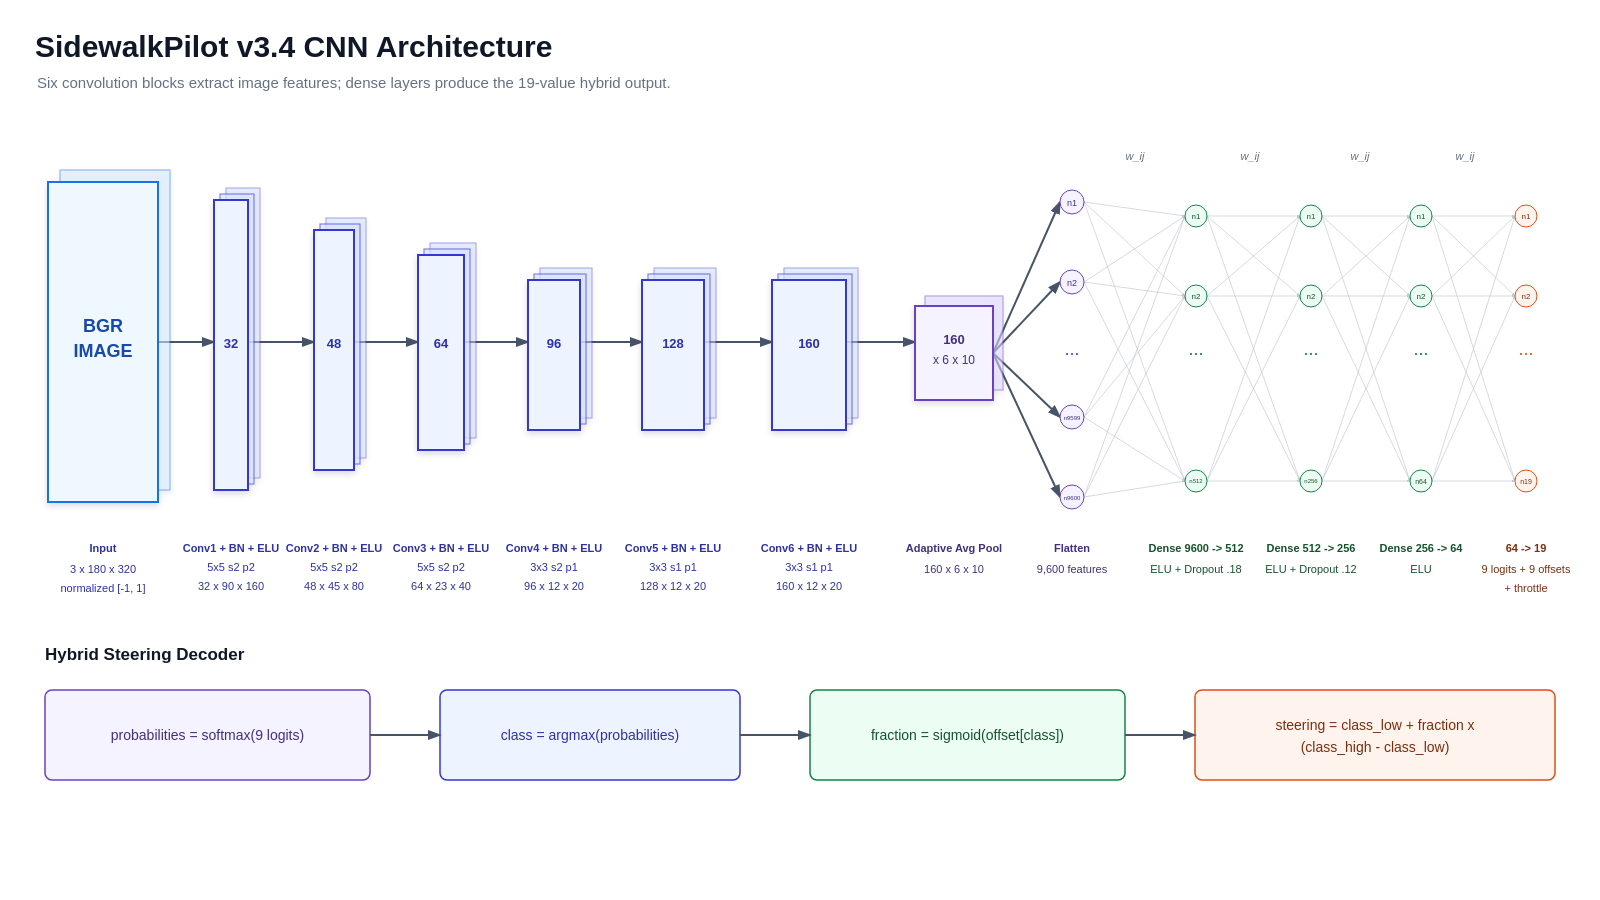
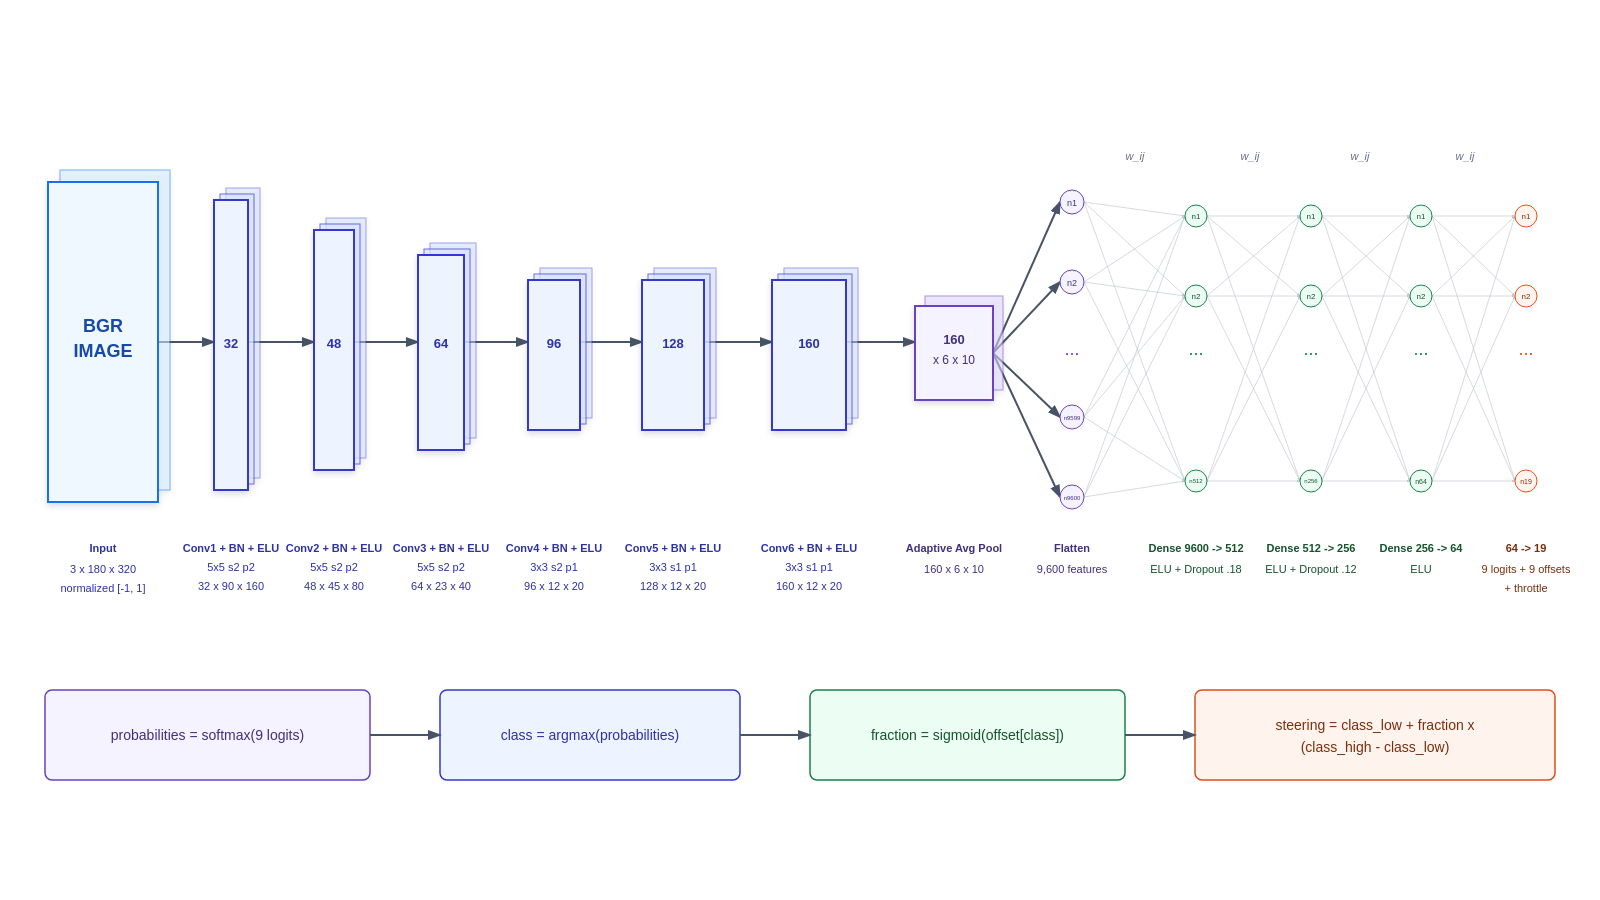
Update runtime timing documentation

Changed region(s): [[0.0, 0.0311, 0.3438, 0.0933], [0.0312, 0.7156, 0.1562, 0.7467]]

diff --git a/docs/site/runtime-code/runtime-loop.md b/docs/site/runtime-code/runtime-loop.md
@@ -1,6 +1,6 @@
 # Runtime Loop and Entrypoint
 
-The Raspberry Pi 5 controller is a 60 Hz arbitration loop owned by `run()` in `code/controller/current/rc_car_app/runtime.py`. The loop reads already-available state, applies control priority, writes hardware commands, and publishes telemetry. Slow device and network work must not execute synchronously in this loop.
+The Raspberry Pi 5 controller is a 50 Hz (20 ms target period) arbitration loop owned by `run()` in `code/controller/current/rc_car_app/runtime.py`. The loop reads already-available state, applies control priority, writes hardware commands, and publishes telemetry. Slow device and network work must not execute synchronously in this loop.
 
 `code/controller/current/rc_car.py` is the minimal executable entrypoint. It calls `runtime.run()`; model selection happens on the dashboard or through `RC_CAR_STEERING_MODEL`, with v3.4 as the checked-in default. Startup initializes controller input, hardware, sensors, camera, Jetson Orin Nano inference, logging, and dashboard telemetry. If no joystick is detected, startup exits rather than enabling a car without its manual-control interface.
 
@@ -13,7 +13,7 @@ The Raspberry Pi 5 controller is a 60 Hz arbitration loop owned by `run()` in `c
 5. Read the latest sensor and navigation state and update dashboard page selection.
 6. Queue the newest dashboard payload for its sender worker.
 7. Append periodic CSV telemetry.
-8. Call `clock.tick(60)` to cap the loop rate.
+8. Call `clock.tick(CONTROL_LOOP_HZ)` to cap the loop rate at 50 Hz.
 
 ## Worker Ownership
 
@@ -35,7 +35,7 @@ Both Jetson Orin Nano and dashboard workers are **latest-value** boundaries. If 
 
 Jetson Orin Nano uses `10.42.0.2:8770`. A failed TCP connect can consume the complete `0.4 s` socket timeout, but that wait occurs only in `AsyncJetsonSteeringClient`. Manual steering and dashboard updates continue while Jetson Orin Nano is powered off. Autonomous mode receives no fresh model result and hard-stops rather than reusing an old command.
 
-`JETSON_RESULT_MAX_AGE_SEC` is `0.25 s`. A result older than that is unavailable for control even if it remains stored in the client.
+`JETSON_RESULT_MAX_AGE_SEC` is `0.08 s` (80 ms), and `JETSON_RESULT_MAX_FRAME_LAG` is `2` (40 ms at the nominal 50 FPS target). A result violating either limit is unavailable for control even if it remains stored in the client.
 
 ## Timing Diagnostics
 

diff --git a/docs/site/autonomy-stack/camera-steering/model-inference.md b/docs/site/autonomy-stack/camera-steering/model-inference.md
@@ -7,16 +7,16 @@ result is unavailable.
 
 ## Data Path
 
-1. `WebcamVisionProcessor` captures `1280×720` `BGR888` frames from the Raspberry Pi Camera. The code declares a nominal 30 FPS target and measures the actual rate at runtime.
+1. `WebcamVisionProcessor` captures `1280×720` `BGR888` frames from the Raspberry Pi Camera. The code requests a nominal 50 FPS and measures the actual rate at runtime.
 2. `AsyncJetsonSteeringClient.submit()` replaces any unsent frame with the newest frame and selected model version.
 3. Its worker JPEG-encodes and sends the request to Jetson Orin Nano at `10.42.0.2:8770`.
 4. `jetson_inference_server.py` hot-switches to the requested `SidewalkPilot-v<version>` model when needed.
 5. Jetson Orin Nano resizes and normalizes the BGR frame, runs PyTorch CUDA for Series 1/2 or ONNX Runtime CUDA for Series 3/4, decodes steering, and returns the result plus telemetry.
-6. The Raspberry Pi 5 consumes only a result for the selected version that is no more than `0.25 s` old.
+6. The Raspberry Pi 5 consumes only a result for the selected version that is no more than `0.08 s` (80 ms) old and no more than two camera frames (40 ms at the nominal 50 FPS target) behind.
 
 ## Capture and Preprocessing
 
-`WebcamVisionProcessor` uses Picamera2 to capture the Raspberry Pi Camera Module 3 Wide at a nominal 1280x720, 30 FPS, in `BGR888`. The camera is mounted upside down, so the configured libcamera transform flips both axes during capture. Capture and analysis run in a daemon worker; the controller reads the newest completed frame and result rather than waiting for the camera.
+`WebcamVisionProcessor` uses Picamera2 to capture the Raspberry Pi Camera Module 3 Wide at a nominal 1280x720, 50 FPS, in `BGR888`. The camera is mounted upside down, so the configured libcamera transform flips both axes during capture. Capture and analysis run in a daemon worker; the controller reads the newest completed frame and result rather than waiting for the camera.
 
 Runtime preprocessing must match each checkpoint:
 

diff --git a/docs/site/exhibits/diagrams/system-diagram.md b/docs/site/exhibits/diagrams/system-diagram.md
@@ -7,7 +7,7 @@ This page is the top-level block diagram of SidewalkPilot: the three-device comp
 SidewalkPilot runs across three boards, each doing the job it is best at:
 
 - **Jetson Orin Nano at `10.42.0.2:8770` - the AI brain.** Runs every current steering-model family on the GPU: Series 1/2 through PyTorch CUDA and Series 3/4 through ONNX Runtime CUDA. The Raspberry Pi 5 sends a camera frame and model selection; the Jetson Orin Nano returns decoded steering plus model/runtime telemetry. Autonomous driving requires a recent result from this path.
-- **Raspberry Pi 5 (`raspberrypi5`) — the hardware and safety controller.** Owns the live hardware I/O. It reads the Xbox controller over pygame, captures frames from the Raspberry Pi Camera Module 3 Wide through Picamera2, reads the LiDAR, GPS, and Hall-effect wheel-speed sensor over serial/GPIO, drives the steering servo through the PCA9685 Servo Controller, drives the JGB37-520 DC motors (12 V, 550 RPM) through the AT8236 Motor Controller, writes CSV logs, and sends dashboard telemetry. The main loop lives in `code/controller/current/rc_car_app/runtime.py` and ticks at up to 60 Hz (`clock.tick(60)`).
+- **Raspberry Pi 5 (`raspberrypi5`) — the hardware and safety controller.** Owns the live hardware I/O. It reads the Xbox controller over pygame, captures frames from the Raspberry Pi Camera Module 3 Wide through Picamera2, reads the LiDAR, GPS, and Hall-effect wheel-speed sensor over serial/GPIO, drives the steering servo through the PCA9685 Servo Controller, drives the JGB37-520 DC motors (12 V, 550 RPM) through the AT8236 Motor Controller, writes CSV logs, and sends dashboard telemetry. The main loop lives in `code/controller/current/rc_car_app/runtime.py` and ticks at up to 50 Hz (`clock.tick(CONTROL_LOOP_HZ)`).
 - **Zero 2 W (`zero2w`) - the dashboard.** Receives telemetry over USB Ethernet and renders it on one HUB75 LED panel. Rendering code is `z2w_dashboard.py`.
 
 ## Links Between Devices

diff --git a/docs/site/runtime-code/controller-mapping.md b/docs/site/runtime-code/controller-mapping.md
@@ -39,7 +39,7 @@ observed on this controller.
 |---|---|---|---|
 | A | `0` | `AUTONOMY_TOGGLE_BUTTON` | Toggle autonomous driving (forces gear D on) |
 | B | `1` | `PHOTO_BUTTON` | Take a single photo (`take_photo`) |
-| Menu | `11` | `AUTO_PHOTO_BUTTON` | Toggle continuous run capture at the configured 10 fps while moving |
+| Menu | `11` | `AUTO_PHOTO_BUTTON` | Toggle continuous run capture at the configured 10 fps (100 ms) while moving |
 | View | `10` | `HAZARD_BUTTON` | Toggle hazard lights |
 | Y | `4` | `CRUISE_TOGGLE_BUTTONS` | Cruise-control toggle (only in gear D) |
 | LB | `6` | `SHIFT_DOWN_BUTTON` | Shift down (P←R←N←D) |
@@ -68,7 +68,7 @@ The gear state begins in Park and steps through `P`, `R`, `N`, and `D` with LB/R
 
 ## Photo Capture
 
-B queues one image. Menu toggles continuous capture at a configured 10 fps while the car is moving or commanded to move. A dated run directory receives timestamped JPEGs and a labels CSV containing logical steering (`0..180`) and absolute physical forward PWM (`0..1`). JPEG encoding and writing run outside the control loop. Finalization converts the CSV to the JSON format accepted by training.
+B queues one image. Menu toggles continuous capture at a configured 10 fps (100 ms) while the car is moving or commanded to move. A dated run directory receives timestamped JPEGs and a labels CSV containing logical steering (`0..180`) and absolute physical forward PWM (`0..1`). JPEG encoding and writing run outside the control loop. Finalization converts the CSV to the JSON format accepted by training.
 
 The label is a software command sampled near the frame request, not measured wheel-angle or motor-torque feedback. Every run must be audited for decodable images, complete labels, and accidental stationary repetition before training.
 

diff --git a/docs/site/hardware/wiring/pin-map.md b/docs/site/hardware/wiring/pin-map.md
@@ -16,10 +16,10 @@ The Raspberry Pi 5 is the hardware I/O and safety controller. Its sensors, Servo
 | Left drive control (forward) | AT8236 Motor Controller -> JGB37-520 DC motors (12 V, 550 RPM) | GPIO (BCM) | `GPIO 25` | `MOTOR_LEFT_FWD_PIN` |
 | Left drive control (backward) | AT8236 Motor Controller -> JGB37-520 DC motors (12 V, 550 RPM) | GPIO (BCM) | `GPIO 13` | `MOTOR_LEFT_BWD_PIN` |
 | Hall-effect wheel-speed sensor | Wheel-speed input | GPIO (BCM), pull-up | `GPIO 24` | `HALL_SENSOR_GPIO_PIN` |
-| GPS | BN880 GPS receiver | UART | `/dev/ttyAMA0` @ `9600` | `GPS_PORT`, `GPS_BAUD` (`navigation.py`) |
+| GPS | BN880 GPS receiver | UART | `/dev/ttyAMA0` @ `9600`; default 1 Hz (1,000 ms) fixes | `GPS_PORT`, `GPS_BAUD` (`navigation.py`) |
 | Compass (bench only) | BN880 HMC5883L-compatible magnetometer | I2C | Detected by `bn880_test.py`; not consumed by live navigation | bench utility only |
 | IMU | Seeed XIAO MG24 Sense (6-axis) | UART, Raspberry Pi 5 GPIO8/9 | `/dev/ttyAMA3` @ `115200` | `STEERING_YAW_PID_PORT`, `STEERING_YAW_PID_BAUD` |
-| LiDAR (current) | Youyeetoo FHL-LD19 via CP2102 UART-to-USB Adapter | USB serial | `/dev/ttyUSB0` @ `230400` (auto-resolved) | `lidar.py` `resolve_lidar_serial_port` |
+| LiDAR (current) | Youyeetoo FHL-LD19 via CP2102 UART-to-USB Adapter | USB serial | `/dev/ttyUSB0` @ `230400` (auto-resolved); typical 10 Hz (100 ms) scans and 4,500 points/s | `lidar.py` `resolve_lidar_serial_port` |
 | LiDAR (former) | Youyeetoo FHL-LD19 | GPIO UART | `/dev/ttyAMA2` @ `230400` | earlier config, now superseded |
 | Dashboard link | Zero 2 W over USB Ethernet gadget | USB (usb0) | Raspberry Pi 5 `192.168.10.1`, Zero 2 W `192.168.10.2`, UDP `8765` | `HUB75_DASHBOARD_*` (`config.py`) |
 

diff --git a/docs/site/autonomy-stack/architecture/decision-priority.md b/docs/site/autonomy-stack/architecture/decision-priority.md
@@ -23,7 +23,8 @@ The priority chain is enforced in two functions in
    model inference is used for motion.
 3. **Model availability gate.** If there is no emergency stop, the camera model
    gets a vote. The Raspberry Pi 5 rejects a camera frame older than 0.75 seconds; a Jetson Orin Nano result
-   must be no more than `JETSON_RESULT_MAX_AGE_SEC = 0.25 s` old and match the selected
+   must be no more than `JETSON_RESULT_MAX_AGE_SEC = 0.08 s` old, no more than
+   `JETSON_RESULT_MAX_FRAME_LAG = 2` frames behind, and match the selected
    model. Confidence must be ≥ `LOW_CAMERA_CONFIDENCE` (0.25). If the model is
    unavailable, stale, or below the configured confidence threshold, the runtime requests a hard stop with reason
    `model_unavailable` or `model_low_confidence`. Accepted neural results currently use confidence `1.0`, so this gate is not a calibrated scene-uncertainty detector.
@@ -55,7 +56,7 @@ detection coverage still require controlled tests.
 |---:|---|---|---|
 | 1 | Manual override | stick/throttle/brake input | `cancel_autonomous_mode` |
 | 2 | Emergency hard stop | enabled AEB and center clearance <= 1.05 m | `LIDAR_OVERRIDE_EMERGENCY_STOP_M` |
-| 3 | Model gate | fresh matching result + conf >= 0.25 | 0.75 s local frame guard; `JETSON_RESULT_MAX_AGE_SEC = 0.25` |
+| 3 | Model gate | fresh matching result + conf >= 0.25 | 0.75 s local frame guard; `JETSON_RESULT_MAX_AGE_SEC = 0.08`; `JETSON_RESULT_MAX_FRAME_LAG = 2` |
 | 4 | Model steering | mapped heading | `MAX_TARGET_HEADING_DEG` 60° |
 | 5 | LiDAR throttle cap | enabled AEB and center clearance < 1.65 m | `LIDAR_GOV_*` |
 | 6 | AEB re-check and steering/motor command | armed AEB, then final command | `AEB_BRAKE_RATE` 10.0 |

diff --git a/docs/site/hardware/build-overview.md b/docs/site/hardware/build-overview.md
@@ -13,9 +13,9 @@ power sources. It is closer to a mobile systems-integration bench than a stock R
 | Chassis and steering | Yahboom Ackermann 520M, JGB37-520 DC motors (12 V, 550 RPM), high-torque steering servo, steering rods/linkage | Physical vehicle, drive power, and car-like front-wheel geometry |
 | Hardware and safety controller | Raspberry Pi 5, PCA9685 Servo Controller, AT8236 Motor Controller | Sensors, controller, servo, motors, safety, logs |
 | Display computer | Zero 2 W, Waveshare 64x32 HUB75 panel | Independent live telemetry display |
-| Vision | Raspberry Pi Camera Module 3 Wide | Forward sidewalk image stream and training photos |
-| Obstacle sensing | Youyeetoo FHL-LD19 360-degree LiDAR, CP2102 UART-to-USB Adapter | Center-corridor slowdown and emergency braking |
-| Navigation | BN880 GPS and HMC5883L-compatible compass | GPS fixes feed the route manager; compass is currently bench-only |
+| Vision | Raspberry Pi Camera Module 3 Wide | 1280x720 forward sidewalk stream at a nominal 50 FPS (20 ms) and 10 FPS (100 ms) training photos |
+| Obstacle sensing | Youyeetoo FHL-LD19 360-degree LiDAR, CP2102 UART-to-USB Adapter | Typical 10 Hz (100 ms) scans for center-corridor slowdown and emergency braking |
+| Navigation | BN880 GPS and HMC5883L-compatible compass | Default 1 Hz (1,000 ms) GPS fixes feed the route manager; compass is currently bench-only |
 | Motion sensing | Hall-effect wheel-speed sensor | Wheel-speed estimate |
 | Manual control | Xbox Series X controller | Steering, throttle, brake, model/page controls, takeover, quit |
 

diff --git a/docs/site/autonomy-stack/camera-steering/jetson-inference-link.md b/docs/site/autonomy-stack/camera-steering/jetson-inference-link.md
@@ -10,10 +10,10 @@ The Raspberry Pi 5 and Jetson Orin Nano communicate over a private point-to-poin
 4. Jetson Orin Nano loads or switches to the requested model.
 5. Jetson Orin Nano decodes the JPEG, resizes and normalizes it for the selected family, and runs PyTorch CUDA for Series 1/2 or ONNX Runtime CUDA for Series 3/4.
 6. Jetson Orin Nano decodes the current steering target and sends 15 floats: steering, throttle placeholder, CPU/GPU temperatures, inference rate/time, and nine current-horizon bucket probabilities.
-7. The Raspberry Pi 5 accepts only a result for the active model that is no more than 0.25 seconds old.
+7. The Raspberry Pi 5 accepts only a result for the active model that is no more than 0.08 seconds (80 ms) old and no more than two camera frames (40 ms at the nominal 50 FPS target) behind.
 8. The Raspberry Pi 5 applies steering EMA, LiDAR/AEB rules, yaw correction, hardware mapping, and the final steering and motor commands.
 
-JPEG encoding, connection attempts, sends, receives, and status polls run in `AsyncJetsonSteeringClient`, not the 60 Hz hardware/controller loop. If camera frame production exceeds inference, pending frames are replaced rather than queued. This keeps commands recent.
+JPEG encoding, connection attempts, sends, receives, and status polls run in `AsyncJetsonSteeringClient`, not the 50 Hz hardware/controller loop. If camera frame production exceeds inference, pending frames are replaced rather than queued. This keeps commands recent.
 
 ## Model Contracts
 

diff --git a/docs/site/runtime-code/vision/camera-capture.md b/docs/site/runtime-code/vision/camera-capture.md
@@ -21,7 +21,7 @@ stream with these exact parameters (all constants in `vision.py`):
 | Camera index | `PI_CAMERA_NUM = 0` (from `config.py`) |
 | Frame size | `CAMERA_FRAME_WIDTH` × `CAMERA_FRAME_HEIGHT` = 1280 × 720 |
 | Pixel format | `BGR888` (kept in OpenCV BGR order on purpose) |
-| Nominal FPS constant | `CAMERA_FPS = 30`; actual rate is measured because this value is not currently passed into the Picamera2 configuration |
+| Nominal FPS constant | `CAMERA_FPS = 50`; passed to Picamera2 as the `FrameRate` control, with actual rate measured at runtime |
 | Rotation | `PI_CAMERA_ROTATE_180 = True` → `Transform(hflip=True, vflip=True)` |
 
 The 180-degree rotation is applied through libcamera's `Transform` because the
@@ -37,10 +37,9 @@ frame is stored as the latest frame for preview, photo, and dashboard use, and a
 computed from the inter-frame delta. A failed read sleeps 50 ms before retrying instead of
 using a tight retry loop.
 
-The size, format, and transform are explicit camera-configuration inputs. The declared
-`CAMERA_FPS` value is not currently supplied as a Picamera2 control, so it must not be
-reported as a guaranteed capture rate; the dashboard/CSV measurement is authoritative for
-a particular run.
+The size, format, transform, and nominal frame rate are explicit camera-configuration inputs.
+The `CAMERA_FPS` value is a requested Picamera2 control, not a guaranteed capture rate; the
+dashboard/CSV measurement is authoritative for a particular run.
 
 ## Why This Choice
 

diff --git a/README.md b/README.md
@@ -85,14 +85,14 @@ Training runs on an NVIDIA RTX 6000 Ada Generation GPU. The Series 3/4 trainers 
 | Hardware and Safety Controller | Raspberry Pi 5 |
 | Display Controller | Zero 2 W |
 | Chassis | Yahboom Ackermann 520M |
-| Camera | Raspberry Pi Camera Module 3 Wide |
-| Obstacle Detection (AEB) | Youyeetoo FHL-LD19 360-degree LiDAR through a CP2102 UART-to-USB Adapter |
-| Steering | PCA9685 Servo Controller and high-torque steering servo |
+| Camera | Raspberry Pi Camera Module 3 Wide, 1280x720 at a nominal 50 FPS (20 ms frame period) |
+| Obstacle Detection (AEB) | Youyeetoo FHL-LD19 360-degree LiDAR through a CP2102 UART-to-USB Adapter; typical 10 Hz scans (100 ms per revolution) and 4,500 ranging points per second |
+| Steering | PCA9685 Servo Controller at 50 Hz (20 ms period) and high-torque steering servo |
 | Drive | Yahboom AT8236 Motor Controller and JGB37-520 DC motors (12 V, 550 RPM) |
-| Navigation | BN880 GPS; onboard HMC5883L compass is bench-only (not used during runtime) |
+| Navigation | BN880 GPS at its default 1 Hz fix rate (1,000 ms); onboard HMC5883L compass is bench-only (not used during runtime) |
 | Motion feedback | Hall-effect wheel-speed sensor and external IMU |
 | Manual control | Xbox Wireless Controller |
-| Dashboard | Waveshare 64x32 HUB75 RGB LED matrix |
+| Dashboard | Waveshare 64x32 HUB75 RGB LED matrix with nominal 10 Hz (100 ms) telemetry |
 
 ## Repository Map
 

diff --git a/docs/site/hardware/lidar.md b/docs/site/hardware/lidar.md
@@ -16,7 +16,8 @@ safety corridor. It does not override steering.
   Raspberry Pi 5 GPIO UART at `/dev/ttyAMA2`. The port is auto-resolved, preferring the CP2102
   `by-id` path and falling back to `ttyUSB*`/`ttyACM*`.
 - The parser decodes the LD19 packet format (47-byte packets, 12 measurement points each)
-  into angle/distance/confidence points, with a max usable range of ~12 m.
+  into angle/distance/confidence points, with a max usable range of ~12 m. The sensor's
+  typical scan rate is 10 Hz (100 ms per revolution), with 4,500 ranging points per second.
 - `lidar_avoidance.py` measures the nearest valid point in a center corridor. With AEB
   enabled, it allows full throttle at 1.65 m, reduces the reference target to 60% by
   1.25 m, holds to 1.05 m, then requests a hard stop. Left and right points are display
@@ -38,6 +39,9 @@ its buffer, and re-resolves the port. Retry delay starts at 1.5 seconds, increas
 a 10-second ceiling, and resets after a successful connection. Repeated status messages are
 limited to once every 15 seconds. This recovery keeps serial waits outside the driving loop,
 but AEB coverage is absent while valid scans are missing.
+
+The reader checks its serial buffer every 10 ms, or up to 100 polls per second. That polling
+rate is not the complete-scan rate; the hardware normally completes about 10 scans per second.
 
 ## Why This Choice
 

diff --git a/docs/site/runtime-code/dashboard/sender.md b/docs/site/runtime-code/dashboard/sender.md
@@ -1,6 +1,6 @@
 # Dashboard Runtime
 
-The Raspberry Pi 5 serializes current state in `hub75_dashboard.py`; `AsyncDashboardSender` keeps JSON encoding and socket work outside the 60 Hz control loop. The Zero 2 W receives UDP and renders the Waveshare 64x32 HUB75 panel with `z2w_dashboard.py`.
+The Raspberry Pi 5 serializes current state in `hub75_dashboard.py`; `AsyncDashboardSender` keeps JSON encoding and socket work outside the 50 Hz control loop. The Zero 2 W receives UDP and renders the Waveshare 64x32 HUB75 panel with `z2w_dashboard.py`.
 
 ## Transport
 
@@ -10,7 +10,7 @@ The Raspberry Pi 5 serializes current state in `hub75_dashboard.py`; `AsyncDashb
 | Raspberry Pi 5 | `192.168.10.1` |
 | Zero 2 W | `192.168.10.2` |
 | UDP port | `8765` |
-| Nominal send rate | 10 Hz |
+| Nominal send rate | 10 Hz (100 ms) |
 | Linked shutdown | Enabled |
 
 The sender keeps one replaceable pending state. If the controller produces several updates before transmission, only the newest survives. Notifications use a small FIFO because they should not disappear when state changes. A successful UDP `sendto()` proves only local acceptance; receiver status, ping, and the physical display verify delivery.
